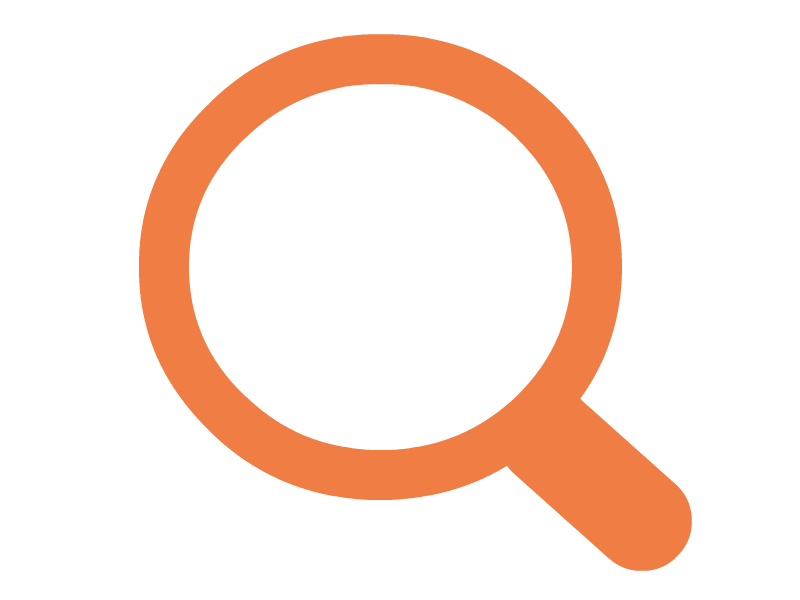
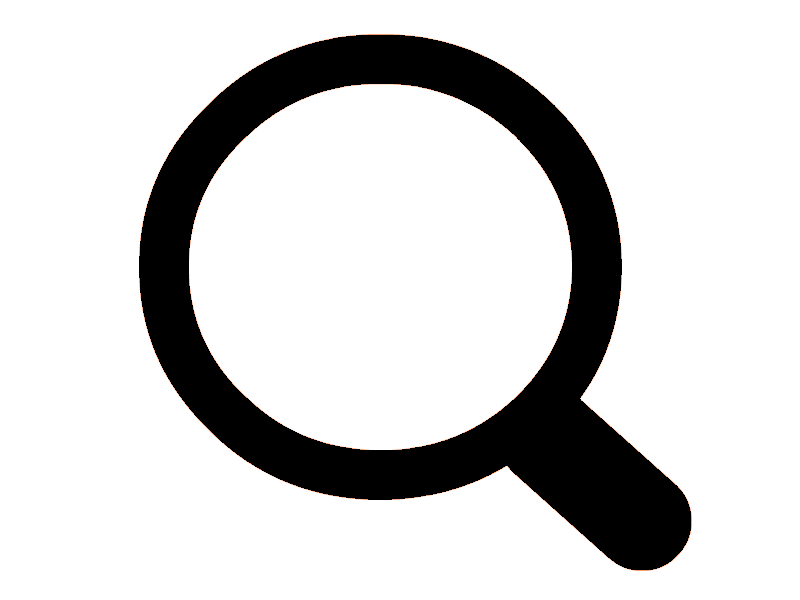
search
header.jsp
1.add button img

JM_searchAction
TagCountAction + SearchAction
1.add style search

Changed region(s): [[0.1562, 0.06, 0.875, 0.96]]

diff --git a/jsp_style_recom/src/dao/JM_SearchStyleDao.java b/jsp_style_recom/src/dao/JM_SearchStyleDao.java
@@ -1,0 +1,103 @@
+package dao;
+
+import java.sql.Connection;
+import java.sql.PreparedStatement;
+import java.sql.ResultSet;
+import java.util.ArrayList;
+
+import javax.naming.Context;
+import javax.naming.InitialContext;
+import javax.sql.DataSource;
+
+public class JM_SearchStyleDao {
+	private static JM_SearchStyleDao instance;
+	private JM_SearchStyleDao() {}
+	
+	public static JM_SearchStyleDao getInstance() {
+		if (instance == null) {
+			instance = new JM_SearchStyleDao();
+		}
+		return instance;
+	}
+	
+	private static Connection getConnection() {
+		Connection conn = null;
+		
+		try {
+			Context ctx = new InitialContext();
+			DataSource ds = (DataSource)ctx.lookup("java:comp/env/jdbc/OracleDB");
+			conn = ds.getConnection();
+		} catch (Exception e) {
+			System.out.println(e.getMessage());
+		}
+		
+		return conn;
+	}
+
+	public ArrayList<StyleInfo> searchStyle(String search_word) {
+		
+		ArrayList<StyleInfo> style_info_list = new ArrayList<StyleInfo>();
+		ArrayList<String> cc_id_list = new ArrayList<String>();
+		
+		Connection conn = null;
+		PreparedStatement pstmt = null;
+		ResultSet rs = null;
+		
+		String replaced_word = search_word.replace(" ", "");
+
+		String cc_id_search_sql = "SELECT cc_id FROM CLOTHES_CATEGORY WHERE cc_name LIKE ? ";//받은 검색어를 통해 그에 맞는 cc_id를 모두 찾아오는 sql문 
+		String style_search_sql = "SELECT * FROM style_info WHERE cc_id_outer = ? OR cc_id_top = ? OR cc_id_bottom = ? OR cc_id_acc = ?";//찾은 cc_id를 통해 cc_id를 포함하는 style_list를 받아온다.
+		
+		try {
+			conn = getConnection();
+			pstmt = conn.prepareStatement(cc_id_search_sql);//기존 검색어의 카운트 값을 받아온다.
+			System.out.println("after setString");
+			pstmt.setString(1, "%"+replaced_word+"%");
+			System.out.println("execute 전");
+			rs = pstmt.executeQuery();
+			
+			while(rs.next()) { 
+				cc_id_list.add(rs.getString(1));//여기가 문제
+			}
+			
+			try {
+				for( int i = 0 ; i < cc_id_list.size() ; i++) {//받은 cc_id에 해당하는 스타일이 있을 경우 전부 가져온다.
+					pstmt.close();
+					rs.close();
+					pstmt = conn.prepareStatement(style_search_sql);
+					pstmt.setString(1, cc_id_list.get(i));
+					pstmt.setString(2, cc_id_list.get(i));
+					pstmt.setString(3, cc_id_list.get(i));
+					pstmt.setString(4, cc_id_list.get(i));
+					rs = pstmt.executeQuery();
+					
+					while(rs.next()) {//받은 style_info를 전부 style_list에 넣는다.
+						StyleInfo si = new StyleInfo();
+						si.setStl_id(rs.getInt("stl_id"));
+						si.setStl_pic_url(rs.getString("stl_pic_url"));
+						style_info_list.add(si);
+					}
+					
+				}
+				
+			}catch (Exception e) {
+				if(e.getMessage() == null) {
+					System.out.println("style_info select error");
+				}else {
+					System.out.println("error : " + e.getMessage());
+				}
+			}
+			
+			
+		}catch (Exception e) {
+			if(e.getMessage() == null) {
+				System.out.println("cc_id select error");
+			}else {
+				System.out.println("error : " + e.getMessage());
+			}
+		}
+		
+		
+		return style_info_list;
+	}
+}

diff --git a/jsp_style_recom/src/service/JM_SearchAction.java b/jsp_style_recom/src/service/JM_SearchAction.java
@@ -1,0 +1,77 @@
+package service;
+
+import java.io.IOException;
+import java.sql.SQLException;
+import java.util.ArrayList;
+
+import javax.servlet.ServletException;
+import javax.servlet.http.HttpServletRequest;
+import javax.servlet.http.HttpServletResponse;
+
+import dao.HotTag;
+import dao.JM_HotTagDao;
+import dao.JM_SearchStyleDao;
+import dao.StyleInfo;
+
+public class JM_SearchAction implements CommandProcess{
+
+	@Override
+	public String requestPro(HttpServletRequest request, HttpServletResponse response)
+			throws ServletException, IOException {
+
+		String returnPage = "main.do";
+		String search_word = request.getParameter("search_word");
+		String search_target = request.getParameter("search_target");
+		
+		try {//검색한 단어의 카운트를 하나 늘린다.
+			
+			JM_HotTagDao ht = JM_HotTagDao.getInstance();
+			int result = ht.count(search_word);
+			if(result > 0 ) {
+				System.out.println("search count success");
+			}else {
+				System.out.println("search count failed");
+			}
+		} catch (Exception e) {
+			System.out.println("search count error : "+e.getMessage());
+		}
+		
+		//검색시 선택한 항목에따라 리턴하는 페이지와 액션이 달라진다. 0:스타일 검색 1:게시글 검색
+		if(search_target.equals("0")) {
+			returnPage = "styleSearch.jsp";
+			System.out.println("스타일 검색");
+			
+			try {
+				System.out.println("styleSearch.search_word->"+search_word);
+				JM_SearchStyleDao ss = JM_SearchStyleDao.getInstance();
+				//ArrayList<StyleInfo> style_info = new ArrayList<StyleInfo>();
+				
+				ArrayList<Integer> id_list = new ArrayList<Integer>();
+				ArrayList<String> pic_list = new ArrayList<String>();
+				//검색어에 맞는 스타일들을 모두 가져오는 메소드
+				
+				ArrayList<StyleInfo> style_info = ss.searchStyle(search_word);
+				
+				//각 배열리스트에 id와 사진주소를 저장한다.
+				for(int i = 0 ; i < style_info.size() ; i++) {
+					id_list.add(i, style_info.get(i).getStl_id());
+					pic_list.add(i, style_info.get(i).getStl_pic_url());
+				}
+				//id와 사진주소 리스트를 넘긴다.
+				request.setAttribute("id_list", id_list);
+				request.setAttribute("pic_list", pic_list);
+				
+			}catch (Exception e) {
+				System.out.println("StyleSearch error : " + e.getMessage());
+			}
+			
+		}else {
+			//returnPage = "board.jsp";
+			System.out.println("게시판 검색");
+		}
+		
+		//검색 결과 페이지로 검색 단어를 get방식으로 전송한다.
+		return returnPage+"?search_word="+search_word;
+	}
+
+}
